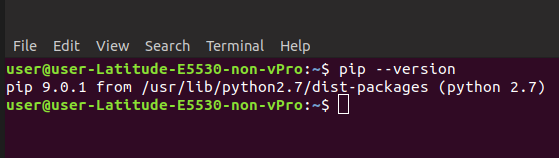
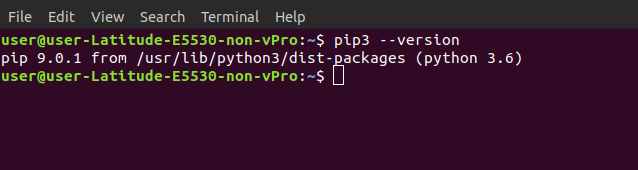
corr pip3

Changed region(s): [[0.0, 0.0506, 1.0, 0.6076], [0.0, 0.6076, 0.6082, 0.7089], [0.6082, 0.7089, 0.6386, 0.7342]]

diff --git a/README.md b/README.md
@@ -116,13 +116,18 @@ Depuis python 3.4, pip est inclus par défaut dans l'installateur python.
 Une petite vérification ne faisant jamais de mal, tape ceçi dans ton invite de commande :
 
 
-    pip --version
+    pip3 --version
 
 ou 
 
-    pip -v
+    pip3 -v
 
 ![Pip](assets/pip.png)
+
+
+Si votre version de `pip` est antérieure à la version 3, mettez-là à jour via :
+
+    sudo apt install python3-pip
 
 
 >Plus d'infos sur pip si tu veux aller plus loin :
@@ -162,7 +167,7 @@ Le module `venv` est inclus à partir de python 3.4.
 
 Si tu es sur une version antérieure, tu devras l'installer via `pip`.
 
-        pip install virtualenv
+        pip3 install virtualenv
 
         virtualenv nomdetonenvironnement
 
@@ -210,7 +215,7 @@ Blague à part, installons enfin Django dans cette environnement virtuel.
 
 Tape ceçi pour installer la dernière version en date de Django: 
 
-    pip install django
+    pip3 install django
 
 
 Lorsque tu installes python, tu installes également l'invite de commande (le shell) de python.
